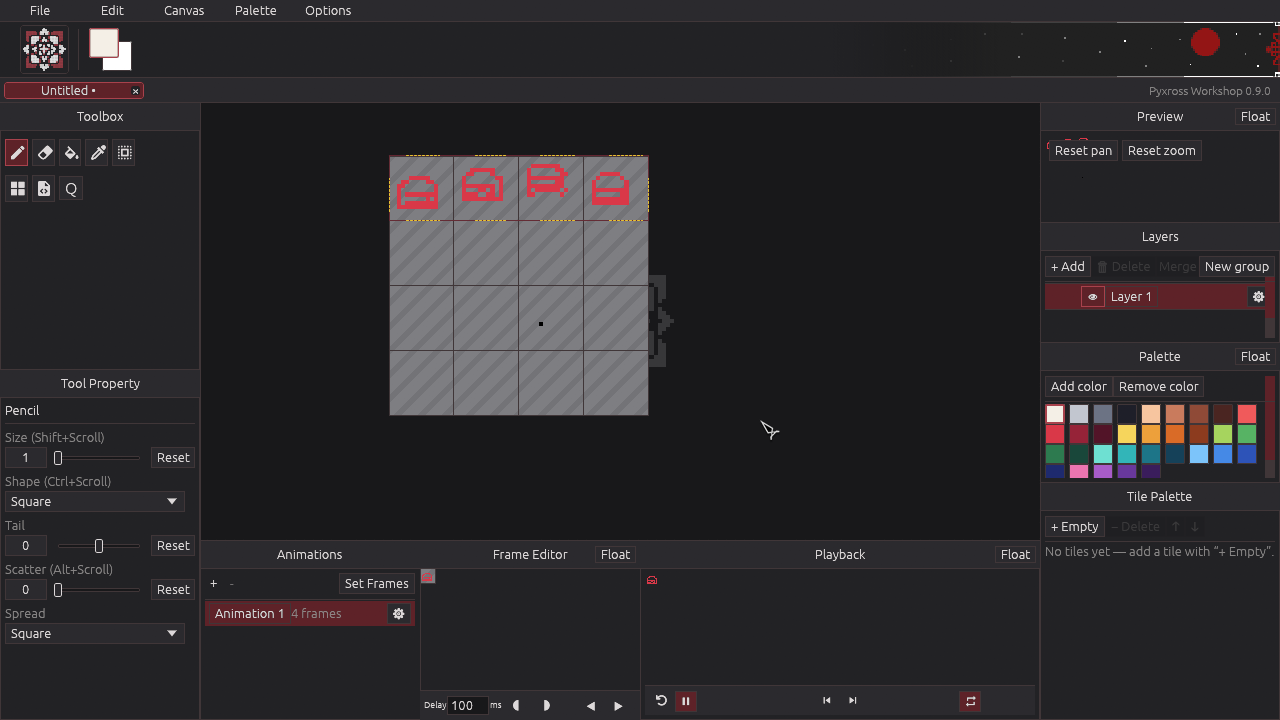
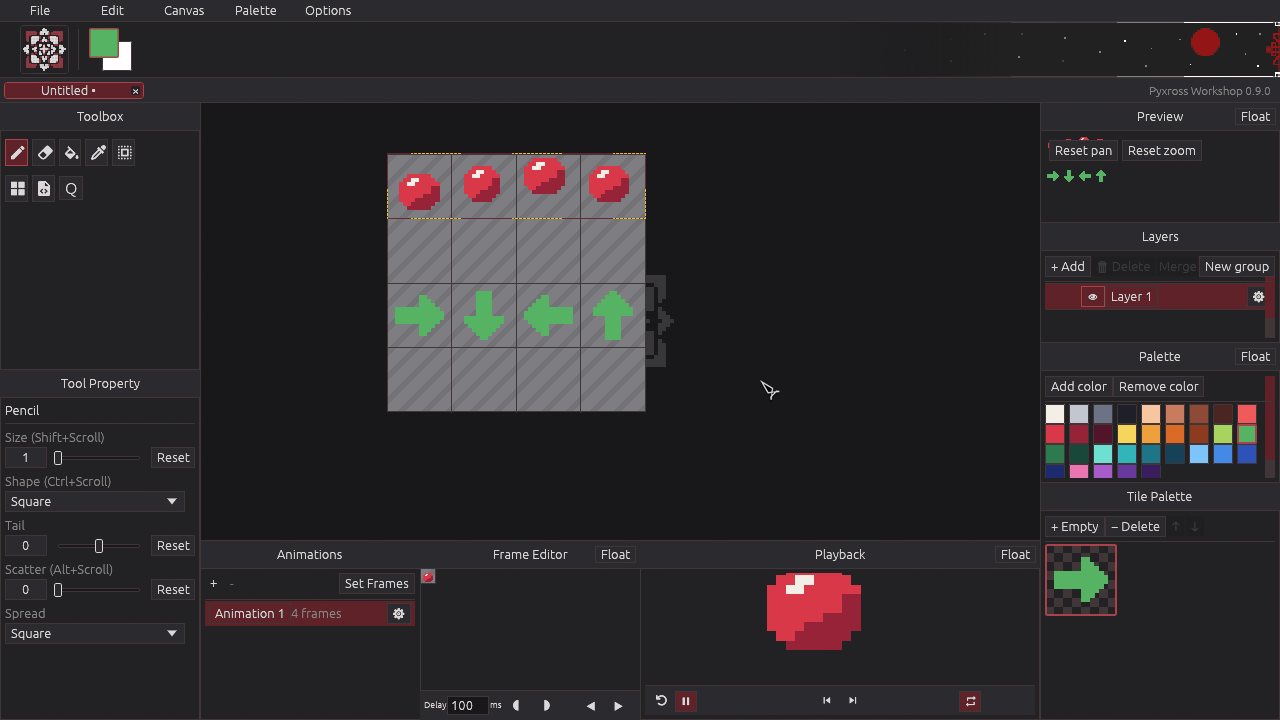
chore(release): simplify release assets and refresh demo GIF

diff --git a/docs/guide/09-transforms-and-shortcuts.md b/docs/guide/09-transforms-and-shortcuts.md
@@ -82,7 +82,7 @@ While a transform is active, the **Tool Property** panel lets you pick the pixel
 - **No Hardware Vulkan/GPU (VMs / Older Laptops):** Pyxross automatically falls back to OpenGL and software rendering (`llvmpipe`/`lavapipe`).
 
 ### Windows
-- **Windows SmartScreen Warning:** Portable builds are currently unsigned; click *More info → Run anyway* if you downloaded directly from the official GitHub Releases page and verified `SHA256SUMS-windows`.
+- **Windows SmartScreen Warning:** Portable builds are currently unsigned; click *More info → Run anyway* if you downloaded directly from the official GitHub Releases page and verified its GitHub SHA-256 digest.
 - **Keep Folder Structure Intact:** Keep `themes/` and `banners/` in the same folder as `pyxross.exe`.
 
 ### Config & Data Locations

diff --git a/README.md b/README.md
@@ -93,10 +93,6 @@ Built on an **Ubuntu 22.04 LTS (`GLIBC 2.35`)** baseline for broad compatibility
   cd pyxross-0.9.0-linux-x86_64
   ./pyxross
   ```
-- **Verify Checksums:**
-  ```sh
-  sha256sum -c SHA256SUMS
-  ```
 
 > **Linux DE Note (GNOME Wayland):** GNOME Mutter does not implement `wlr-data-control`. In-app copy/paste works normally, while OS-level image copy/paste with external apps on GNOME Wayland may fall back to the internal clipboard.
 
